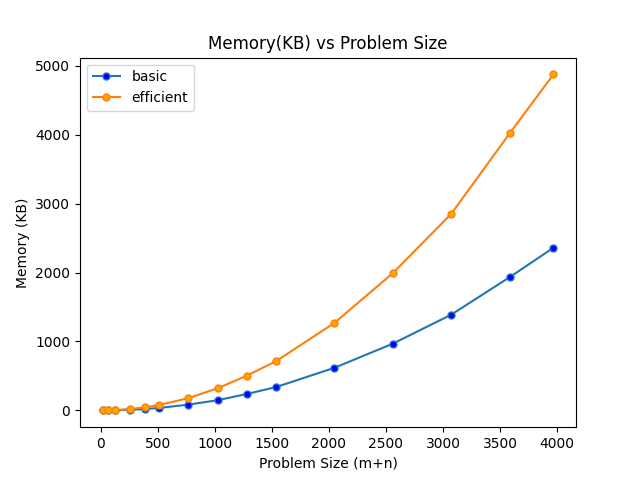
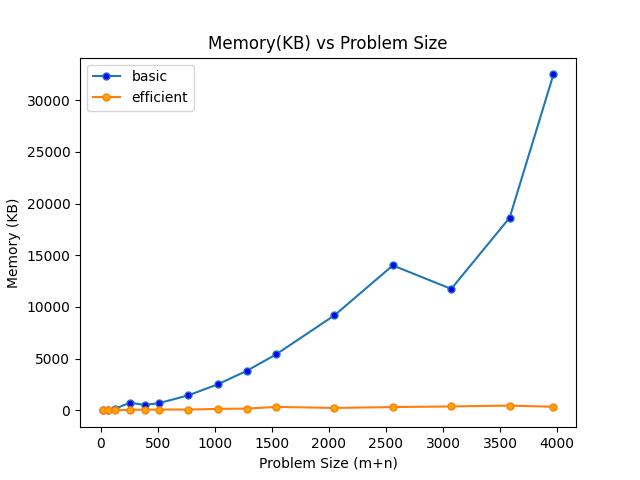
Latest graph

diff --git a/plt.py b/plt.py
@@ -18,21 +18,21 @@ ps = [16,
       ]
 
 # for basic
-memory = [0.06008148193359375,
-          0.5948543548583984,
-          2.377033233642578,
-          8.764028549194336,
-          19.17886734008789,
-          35.33291816711426,
-          83.93383026123047,
-          147.61996269226074,
-          238.21377754211426,
-          338.02103996276855,
-          617.7310943603516,
-          968.0068492889404,
-          1388.3497714996338,
-          1932.168960571289,
-          2359.0710163116455
+memory = [0,
+          48,
+          176,
+          736,
+          528,
+          704,
+          1456,
+          2512,
+          3824,
+          5408,
+          9184,
+          14016,
+          11744,
+          18624,
+          32480,
           ]
 time = [0.06008148193359375,
         0.6148815155029297,
@@ -52,21 +52,21 @@ time = [0.06008148193359375,
         ]
 
 # for dc
-memory_dc = [0.19025802612304688,
-             1.641988754272461,
-             5.458354949951172,
-             19.95396614074707,
-             43.804168701171875,
-             78.11999320983887,
-             178.1609058380127,
-             320.84202766418457,
-             503.31902503967285,
-             713.3083343505859,
-             1268.571138381958,
-             1990.206003189087,
-             2850.4748344421387,
-             4017.231225967407,
-             4873.690843582153
+memory_dc = [16,
+             32,
+             32,
+             48,
+             80,
+             80,
+             80,
+             144,
+             176,
+             336,
+             240,
+             320,
+             384,
+             464,
+             352
              ]
 time_dc = [0.1888275146484375,
            1.5921592712402344,

diff --git a/efficient.py b/efficient.py
@@ -13,13 +13,13 @@ class EfficientSeqAl:
 
     def time_wrapper(self, ipFileName):
         s1, s2 = self.ipGenerator(ipFileName)
-        print("length of input: " + str(len(s1)+len(s2)))
+        # print("length of input: " + str(len(s1)+len(s2)))
         start_time = time.time()
         ans = self.divAndConq(s1, s2)
         end_time = time.time()
-        #print(ans[2])
-        #print(ans[0])
-        #print(ans[1])
+        # print(ans[2])
+        # print(ans[0])
+        # print(ans[1])
         time_taken = (end_time - start_time)*1000
         return time_taken
 
@@ -146,9 +146,9 @@ class EfficientSeqAl:
 
 
 if __name__ == "__main__":
-    memory_usage_before = obj.get_process_memory()
     obj = EfficientSeqAl()
+    memory_usage_before = obj.get_process_memory()
     time = obj.time_wrapper(sys.argv[1])
     memory_usage_after = obj.get_process_memory()
-    print("time: " + str(time))
-    print("memory: " +  str(float((memory_usage_after - memory_usage_before)/1024)))
+    # print("time: " + str(time))
+    print((memory_usage_after - memory_usage_before)//1024)

diff --git a/basic.py b/basic.py
@@ -5,14 +5,16 @@ import psutil
 import sys
 import os
 
+
 def get_process_memory():
     process_mem = psutil.Process(os.getpid())
     return process_mem.memory_info().rss
 
+
 class basicSeqAl:
     def time_wrapper(self, ipFileName):
         s1, s2 = self.ipGenerator(ipFileName)
-        print("length of input: " + str(len(s1)+len(s2)))
+        # print("length of input: " + str(len(s1)+len(s2)))
         start_time = time.time()
         dp = self.dpSequenceAlign(s1, s2)
         sequence = self.getSequence(dp, s1, s2)
@@ -123,5 +125,5 @@ if __name__ == "__main__":
     obj = basicSeqAl()
     time = obj.time_wrapper(sys.argv[1])
     memory_usage_after = get_process_memory()
-    print("time: " + str(time))
-    print("memory: " +  str(float(memory_usage_after - memory_usage_before)/1024.0))
+    # print("time: " + str(time))
+    print((memory_usage_after - memory_usage_before)//1024)
